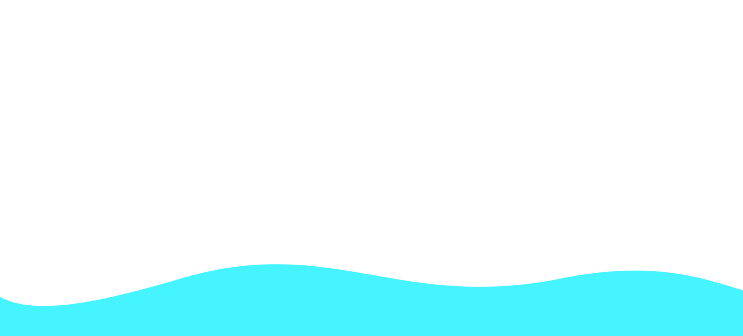
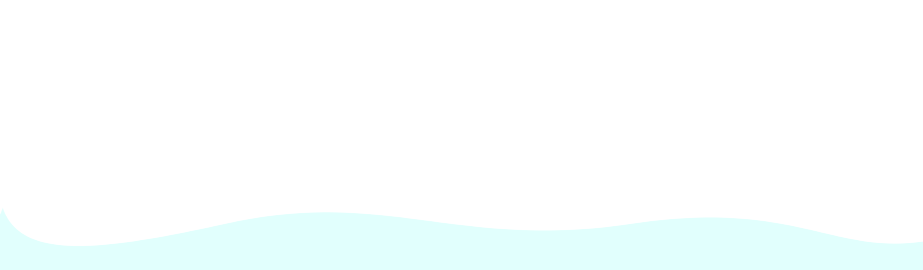
Created a form for suppliers to enter their information into.

Changed region(s): [[0.0, 0.7704, 1.0, 1.0]]

diff --git a/src/pages/suppliers.js b/src/pages/suppliers.js
@@ -1,0 +1,120 @@
+import './suppliers.css';
+
+function Suppliers() {
+    const current = new Date();
+    const date = `${current.getDate()}/${current.getMonth()+1}/${current.getFullYear()}`;
+
+    console.log(date);
+
+  return (
+    <div className="suppliersForm">
+        <div className='welcome'>
+            Thank you for providing to the local food insecure!
+        </div>
+
+        <form className="form-style-4">
+            <label htmlFor="field1">
+            <span>Name of Establishment</span><input type="text" name="field1" required={true} />
+            </label>
+
+            <label htmlFor="field2">
+                <span>Address Line 1</span><input type="text" name="field2" required={true} />
+            </label>
+
+            <label htmlFor="field3">
+                <span>Town</span><input type="text" name="field3" required={true} />
+            </label>
+
+            <label htmlFor="field3c">
+                <span>Zipcode</span><input type="text" name="field3c" required={true} />
+            </label>
+
+            <label htmlFor="field4">
+                <span> State </span>
+                <select id="field4" name="field4">
+                    <option value="AL">Alabama</option>
+                    <option value="AK">Alaska</option>
+                    <option value="AZ">Arizona</option>
+                    <option value="AR">Arkansas</option>
+                    <option value="CA">California</option>
+                    <option value="CO">Colorado</option>
+                    <option value="CT">Connecticut</option>
+                    <option value="DE">Delaware</option>
+                    <option value="DC">District Of Columbia</option>
+                    <option value="FL">Florida</option>
+                    <option value="GA">Georgia</option>
+                    <option value="HI">Hawaii</option>
+                    <option value="ID">Idaho</option>
+                    <option value="IL">Illinois</option>
+                    <option value="IN">Indiana</option>
+                    <option value="IA">Iowa</option>
+                    <option value="KS">Kansas</option>
+                    <option value="KY">Kentucky</option>
+                    <option value="LA">Louisiana</option>
+                    <option value="ME">Maine</option>
+                    <option value="MD">Maryland</option>
+                    <option value="MA">Massachusetts</option>
+                    <option value="MI">Michigan</option>
+                    <option value="MN">Minnesota</option>
+                    <option value="MS">Mississippi</option>
+                    <option value="MO">Missouri</option>
+                    <option value="MT">Montana</option>
+                    <option value="NE">Nebraska</option>
+                    <option value="NV">Nevada</option>
+                    <option value="NH">New Hampshire</option>
+                    <option value="NJ">New Jersey</option>
+                    <option value="NM">New Mexico</option>
+                    <option value="NY">New York</option>
+                    <option value="NC">North Carolina</option>
+                    <option value="ND">North Dakota</option>
+                    <option value="OH">Ohio</option>
+                    <option value="OK">Oklahoma</option>
+                    <option value="OR">Oregon</option>
+                    <option value="PA">Pennsylvania</option>
+                    <option value="RI">Rhode Island</option>
+                    <option value="SC">South Carolina</option>
+                    <option value="SD">South Dakota</option>
+                    <option value="TN">Tennessee</option>
+                    <option value="TX">Texas</option>
+                    <option value="UT">Utah</option>
+                    <option value="VT">Vermont</option>
+                    <option value="VA">Virginia</option>
+                    <option value="WA">Washington</option>
+                    <option value="WV">West Virginia</option>
+                    <option value="WI">Wisconsin</option>
+                    <option value="WY">Wyoming</option>
+                </select>				
+            </label>
+
+            <label htmlFor="field3">
+                <span>Date Available</span><input type="date" name="field3" required={true}/>
+            </label>
+
+            <label htmlFor="field3a">
+                <span>Time Start</span><input type="time" name="field3a" required={true}/>
+            </label>
+
+            <label htmlFor="field3b">
+                <span>Time End</span><input type="time" name="field3b" required={true}/>
+            </label>
+
+            <label htmlFor="field4">
+                <span>Food Available</span><textarea name="field4"></textarea>
+            </label>
+
+            <label>
+                <span> </span><input type="submit" value="Submit Food" />
+            </label>
+        </form>
+    </div>
+  );
+}
+
+export default Suppliers;
+
+
+// Name of place
+// Location (Address)
+// Local times to and from
+// Dates automatically set to today
+// Description of food available

diff --git a/src/pages/suppliers.css b/src/pages/suppliers.css
@@ -1,0 +1,96 @@
+.suppliersForm {
+    overflow-x: hidden;
+}
+
+.form-style-4{
+	width: 60%;
+    margin-left: calc(20% - 60px);
+	font-size: 16px;
+	background: #011D64;
+	padding: 30px 30px 15px 30px;
+	border: 5px solid #0A4EFF;
+}
+.form-style-4 input[type=submit],
+.form-style-4 input[type=button],
+.form-style-4 input[type=text],
+.form-style-4 input[type=email],
+.form-style-4 textarea,
+.form-style-4 label
+{
+	font-family: "Poppins";
+	font-size: 16px;
+	color: #fff;
+
+}
+.form-style-4 label {
+	display:block;
+	margin-bottom: 10px;
+}
+.form-style-4 label > span{
+	display: inline-block;
+	float: left;
+	width: 300px;
+}
+.form-style-4 input[type=text],
+.form-style-4 input[type=email] 
+{
+	background: transparent;
+	border: none;
+	border-bottom: 1px dashed #83A4C5;
+	width: 275px;
+	outline: none;
+	padding: 0px 0px 0px 0px;
+}
+
+.form-style-4 textarea{
+	padding: 0px 0px 0px 0px;
+	background: transparent;
+	outline: none;
+	border-bottom: 1px dashed #83A4C5;
+    border-top: 1px dashed #83A4C5;
+
+    border-left: 1px solid #83A4C5;
+    border-right: 1px solid #83A4C5;
+	width: 275px;
+	overflow: hidden;
+	resize:none;
+	height:20px;
+}
+
+.form-style-4 textarea:focus, 
+.form-style-4 input[type=text]:focus,
+.form-style-4 input[type=email]:focus,
+.form-style-4 input[type=email] :focus
+{
+	border-bottom: 1px dashed #D9FFA9;
+}
+
+.form-style-4 textarea:focus {
+    border-top: 1px dashed #D9FFA9;
+}
+
+.form-style-4 input[type=button]{
+	background: #576E86;
+	border: none;
+	padding: 8px 10px 8px 10px;
+	border-radius: 5px;
+	color: #A8BACE;
+}
+.form-style-4 input[type=submit]:hover,
+.form-style-4 input[type=button]:hover{
+    background: #394D61;
+}
+
+.form-style-4 textarea {
+    height: 250px;
+    border-bottom: 1px dashed #83A4C5;
+    border-top: 1px dashed #83A4C5;
+}
+
+.form-style-4 input[type=submit] {
+    background: #576E86;
+    color: white;
+    padding: 8px 10px 8px 10px;
+	border-radius: 5px;
+    border: none;
+}

diff --git a/src/components/navBar.js b/src/components/navBar.js
@@ -7,10 +7,10 @@ function NavBar() {
     <div className='navbar'>
         <nav>
             <ul>
-                <li class="logo"><img src={Logo} alt="logo"/><div className="name"> Sustain </div></li>
+                <li className="logo"><img src={Logo} alt="logo"/><div className="name"> Sustain </div></li>
                 <li><Link to="/home" className='linkItem'>Home</Link></li>
-                <li><Link to="/home" className='linkItem'>Food near you</Link></li>
-                <li><Link to="/home" className='linkItem'>Food suppliers</Link></li>
+                <li><Link to="/nearyou" className='linkItem'>Food near you</Link></li>
+                <li><Link to="/suppliers" className='linkItem'>Food suppliers</Link></li>
                 <li><Link to="/home" className='linkItem'>FAQ</Link></li>
             </ul>
         </nav>

diff --git a/src/sroutes.js b/src/sroutes.js
@@ -2,6 +2,8 @@ import React from 'react';
 import { Routes, Route} from 'react-router-dom';
 
 import Home from './pages/home';
+import NearYou from './pages/nearyou';
+import Suppliers from './pages/suppliers';
 
 class SRoutes extends React.Component {
     render() {
@@ -9,6 +11,9 @@ class SRoutes extends React.Component {
             <Routes>
                 <Route path="/" element={<Home />} />
                 <Route path="/home" element={<Home />} />
+
+                <Route path="/nearyou" element={<NearYou />} />
+                <Route path="/suppliers" element={<Suppliers />} />
 
             </Routes>
         );

diff --git a/src/pages/home.js b/src/pages/home.js
@@ -28,6 +28,10 @@ function Home() {
             <span className='number'> 6.1 million </span> children were impacted 
             by food insecurity. <br/>
         </div>
+
+        <div className='fullImage'>
+            <img src={bg} alt="light blue squiggle"></img>
+        </div>
     </div>
   );
 }

diff --git a/src/pages/nearyou.js b/src/pages/nearyou.js
@@ -1,0 +1,11 @@
+import './home.css';
+
+function NearYou() {
+  return (
+    <div>
+        
+    </div>
+  );
+}
+
+export default NearYou;
